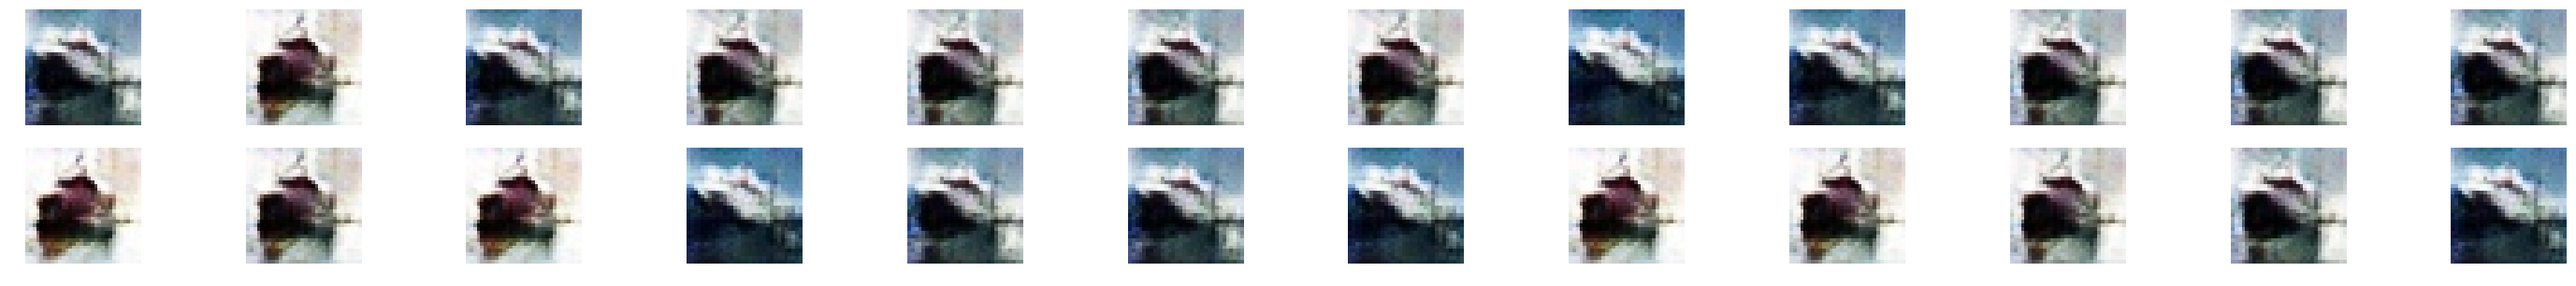
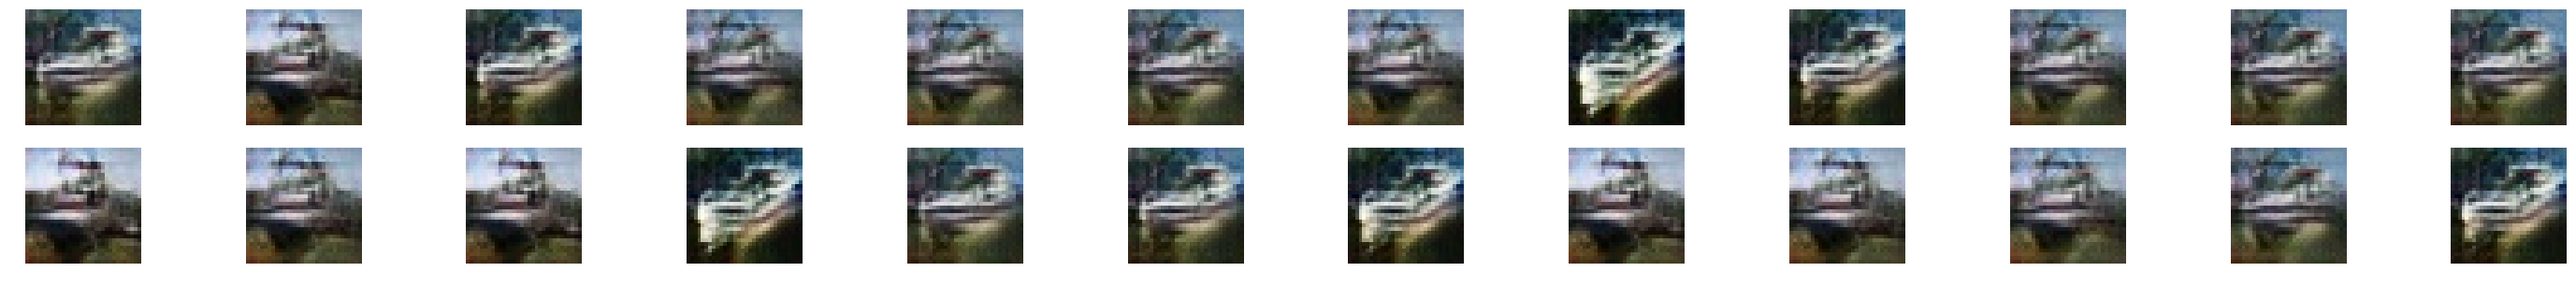
updates

diff --git a/gan.py b/gan.py
@@ -34,7 +34,7 @@ class GAN():
         self.channels = self.img_shape[2]
 
         # Distribution params for latent
-        self.latent_dim = 40
+        self.latent_dim = 20
         self.loc = 0
         self.scale = 1
 
@@ -65,16 +65,18 @@ class GAN():
 
         ConvT = Conv2DTranspose
         model = Sequential()
-        model.add(Dense(512*4*4,input_shape=(self.latent_dim,)))
+        
+        init_feats = 128
+        model.add(Dense(init_feats*4*4,input_shape=(self.latent_dim,)))
         model.add(LeakyReLU(0.2))
         model.add(BatchNormalization())
-        model.add(Reshape((4,4,512)))
+        model.add(Reshape((4,4,init_feats)))
 
-        model.add(ConvT(128,kernel_size=5,strides=2,padding='same'))
+        model.add(ConvT(64,kernel_size=5,strides=2,padding='same'))
         model.add(LeakyReLU(0.2))
         model.add(BatchNormalization())
 
-        model.add(ConvT(128,kernel_size=5,strides=2,padding='same'))
+        model.add(ConvT(64,kernel_size=5,strides=2,padding='same'))
         model.add(LeakyReLU(0.2))
         model.add(BatchNormalization())
 
@@ -113,7 +115,7 @@ class GAN():
         model.add(BatchNormalization())
 
         model.add(Flatten())
-        model.add(Dense(256))
+        model.add(Dense(128))
         model.add(LeakyReLU(0.2))
         model.add(Dense(1, activation='sigmoid'))
         print(10*'*'+'Discriminator '+10*'*')
@@ -185,12 +187,13 @@ if __name__ == '__main__':
 
     parser = ArgumentParser()
     parser.add_argument("--inference", default=False, action='store_true', help="Generator inference")
+    parser.add_argument("--train", default=False, action='store_true', help="Train algorithm?")
     ags = parser.parse_args()
+    if ags.train == True:
+            gan = GAN(load=False)
+            gan.train()
     if ags.inference == True:
         gan = GAN(load=True)
         gan.inference()
-    train = False
-    if train == True:
-            gan = GAN(load=False)
-            gan.train()
+
 

diff --git a/README.md b/README.md
@@ -6,3 +6,6 @@ Default class type are ships.
 Here are some generated examples fixing all latent variable dimensions except one;
 ![alt text](https://github.com/mattdns100689/gan-dalf/blob/master/change_dimension.png)
 
+Losses for both networks for default specification
+![alt text](https://github.com/mattdns100689/gan-dalf/blob/master/loss.png)
+
